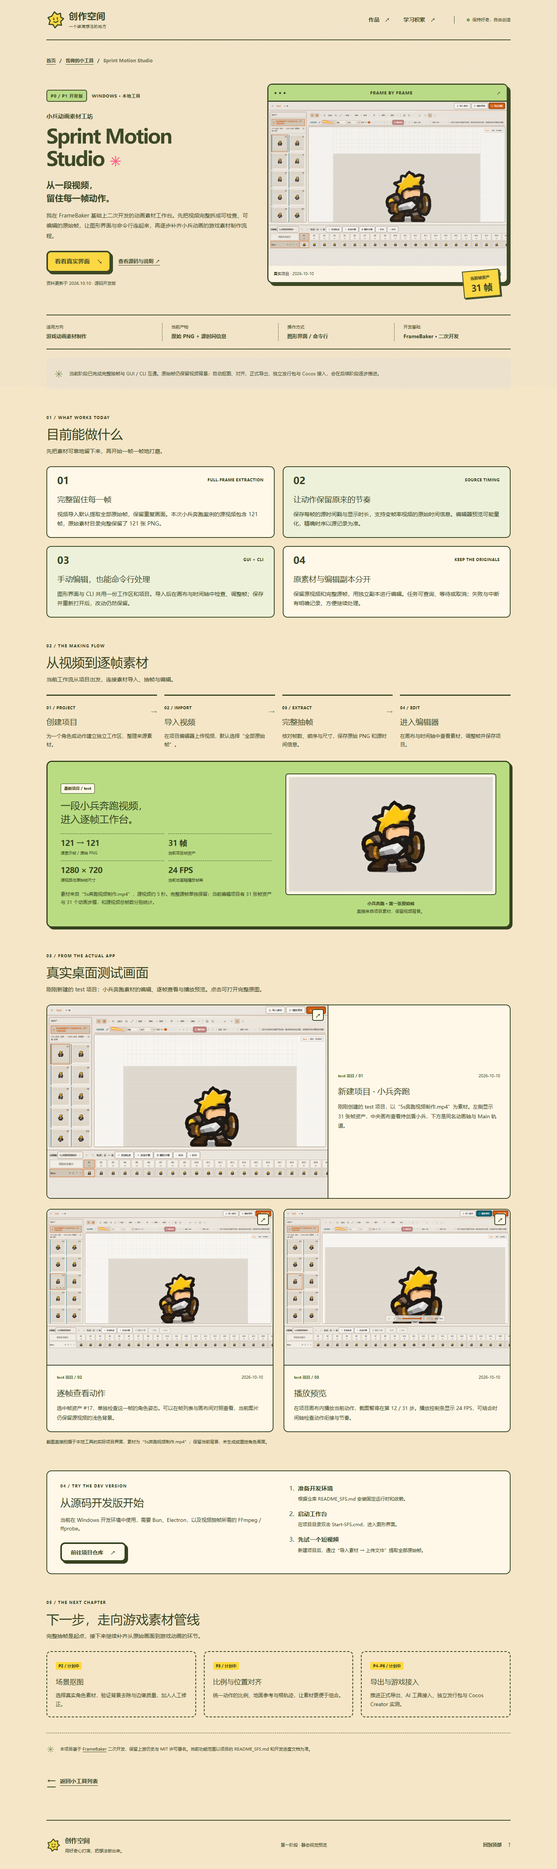
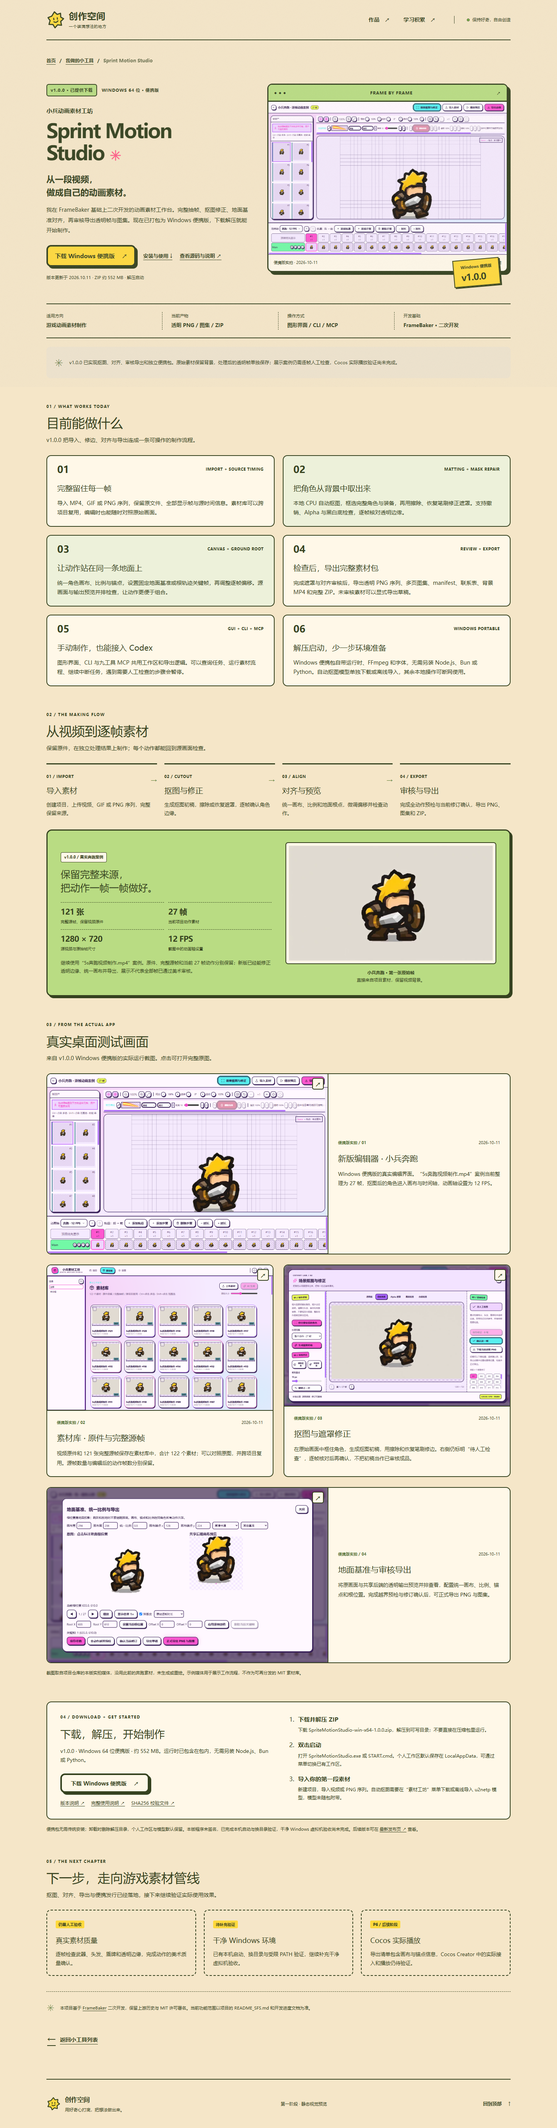
feat: publish studio v1.0.0 download and updated showcase

diff --git a/app/tools/sprint-motion-studio/page.tsx b/app/tools/sprint-motion-studio/page.tsx
@@ -1,4 +1,5 @@
 import { publicAsset } from "@/lib/public-assets";
+import { studioRelease } from "@/data/sprint-motion-studio";
 import type { Metadata } from "next";
 import Image from "next/image";
 import Link from "next/link";
@@ -6,32 +7,35 @@ import { SiteHeader } from "@/components/SiteHeader";
 import { SiteFooter } from "@/components/SiteFooter";
 import styles from "./studio.module.css";
 
-const repo = "https://github.com/wzh20010805-boop/Sprint-Motion-Studio";
+const repo = studioRelease.repoUrl;
 const assetRoot = publicAsset("/images/tools/sprint-motion-studio");
 
 export const metadata: Metadata = {
   title: "Sprint Motion Studio · 小兵动画素材工坊 | 创作空间",
-  description: "基于 FrameBaker 二次开发的动画素材工具。查看视频完整抽帧、源时序保留、GUI 与 CLI 互通、真实桌面测试画面及 P0/P1 开发进度。",
+  description: "下载 Sprint Motion Studio 1.0.0 Windows 便携版，查看完整抽帧、抠图修正、地面基准对齐、审核导出、CLI / MCP 互通和真实小兵奔跑案例。",
 };
 
 const capabilities = [
-  { number: "01", title: "完整留住每一帧", text: "视频导入默认提取全部原始帧，保留重复画面。本次小兵奔跑案例的源视频包含 121 帧，原始素材目录完整保留了 121 张 PNG。", tag: "FULL-FRAME EXTRACTION" },
-  { number: "02", title: "让动作保留原来的节奏", text: "保存每帧的源时间戳与显示时长，支持变帧率视频的原始时间信息。编辑器预览可能量化，精确时序以源记录为准。", tag: "SOURCE TIMING" },
-  { number: "03", title: "手动编辑，也能命令行处理", text: "图形界面与 CLI 共用一份工作区和项目。导入后在画布与时间轴中检查、调整帧；保存并重新打开后，改动仍然保留。", tag: "GUI + CLI" },
-  { number: "04", title: "原素材与编辑副本分开", text: "保留原视频和完整源帧，用独立副本进行编辑。任务可查询、等待或取消；失败与中断有明确记录，方便继续处理。", tag: "KEEP THE ORIGINALS" },
+  { number: "01", title: "完整留住每一帧", text: "导入 MP4、GIF 或 PNG 序列，保留原文件、全部显示帧与源时间信息。素材库可以跨项目复用，编辑时也能随时对照原始画面。", tag: "IMPORT + SOURCE TIMING" },
+  { number: "02", title: "把角色从背景中取出来", text: "本地 CPU 自动抠图，框选完整角色与装备，再用擦除、恢复笔刷修正遮罩。支持撤销、Alpha 与黑白底检查，逐帧核对透明边缘。", tag: "MATTING + MASK REPAIR" },
+  { number: "03", title: "让动作站在同一条地面上", text: "统一角色画布、比例与锚点，设置固定地面基准或根轨迹关键帧，再调整逐帧偏移。源画面与输出预览并排检查，让动作更便于组合。", tag: "CANVAS + GROUND ROOT" },
+  { number: "04", title: "检查后，导出完整素材包", text: "完成遮罩与对齐审核后，导出透明 PNG 序列、多页图集、manifest、联系表、背景 MP4 和完整 ZIP。未审核素材可以显式导出草稿。", tag: "REVIEW + EXPORT" },
+  { number: "05", title: "手动制作，也能接入 Codex", text: "图形界面、CLI 与九工具 MCP 共用工作区和导出逻辑。可以查询任务、运行素材流程、继续中断任务，遇到需要人工检查的步骤会暂停。", tag: "GUI + CLI + MCP" },
+  { number: "06", title: "解压启动，少一步环境准备", text: "Windows 便携包自带运行时、FFmpeg 和字体，无需另装 Node.js、Bun 或 Python。自动抠图模型单独下载或离线导入，其余本地操作可断网使用。", tag: "WINDOWS PORTABLE" },
 ];
 
 const workflow = [
-  { title: "创建项目", text: "为一个角色或动作建立独立工作区，整理来源素材。", hint: "01 / PROJECT" },
-  { title: "导入视频", text: "在项目编辑器上传视频，默认选择“全部原始帧”。", hint: "02 / IMPORT" },
-  { title: "完整抽帧", text: "核对帧数、顺序与尺寸，保存原始 PNG 和源时间信息。", hint: "03 / EXTRACT" },
-  { title: "进入编辑器", text: "在画布与时间轴中查看素材，调整帧并保存项目。", hint: "04 / EDIT" },
+  { title: "导入素材", text: "创建项目，上传视频、GIF 或 PNG 序列，完整保留来源。", hint: "01 / IMPORT" },
+  { title: "抠图与修正", text: "生成抠图初稿，擦除或恢复遮罩，逐帧确认角色边缘。", hint: "02 / CUTOUT" },
+  { title: "对齐与预览", text: "统一画布、比例和地面根点，微调偏移并检查动作。", hint: "03 / ALIGN" },
+  { title: "审核与导出", text: "完成全动作预检与当前修订确认，导出 PNG、图集和 ZIP。", hint: "04 / EXPORT" },
 ];
 
 const screenshots = [
-  { file: "test-project-editor.png", title: "新建项目 · 小兵奔跑", text: "刚刚创建的 test 项目，以“5s奔跑视频制作.mp4”为素材。左侧显示 31 张帧资产，中央画布查看持剑盾小兵，下方是同名动画轴与 Main 轨道。", alt: "test 项目的真实编辑界面：31张小兵奔跑帧资产、角色画布及5s奔跑视频制作动画轴" },
-  { file: "test-project-frame.png", title: "逐帧查看动作", text: "选中帧资产 #17，单独检查这一帧的角色姿态。可以在帧列表与画布间对照查看，当前图片仍保留源视频的浅色背景。", alt: "test 项目中选中第17张帧资产，画布展示持剑盾小兵的奔跑姿态" },
-  { file: "test-project-preview.png", title: "播放预览", text: "在项目画布内播放当前动作，截图暂停在第 12 / 31 步。播放控制条显示 24 FPS，可结合时间轴检查动作衔接与节奏。", alt: "test 项目的小兵奔跑播放预览，控制条显示24 FPS与第12步共31步" },
+  { file: "v1-editor.png", title: "新版编辑器 · 小兵奔跑", text: "Windows 便携版的真实编辑界面。“5s奔跑视频制作.mp4”案例当前整理为 27 帧，抠图后的角色进入画布与时间轴，动画轴设置为 12 FPS。", alt: "Sprint Motion Studio 1.0.0实拍编辑器：27帧小兵奔跑角色、透明画布及12 FPS动画轴", height: 861 },
+  { file: "v1-library.png", title: "素材库 · 原件与完整源帧", text: "视频原件和 121 张完整源帧保存在素材库中，合计 122 个素材；可以对照原图，并跨项目复用。源帧数量与编辑后的动作帧数分别保留。", alt: "新版素材库显示122个素材，包含原视频与完整抽取的小兵奔跑源帧", height: 861 },
+  { file: "v1-mask-workshop.png", title: "抠图与遮罩修正", text: "在原始画面中框住角色，生成抠图初稿，用擦除和恢复笔刷修边。右侧仍标明“待人工检查”，逐帧核对后再确认，不把初稿当作已审核成品。", alt: "场景抠图与修正窗口，展示原始角色、框选、擦除恢复笔刷及待人工检查状态", height: 835 },
+  { file: "v1-alignment-workshop.png", title: "地面基准与审核导出", text: "将原画面与共享后端的透明输出预览并排查看，配置统一画布、比例、锚点和根位置。完成越界预检与修订确认后，可正式导出 PNG 与图集。", alt: "地面基准统一比例与导出窗口，展示画布参数、地面根位置、透明预览以及正式导出入口", height: 835 },
 ];
 
 export default function SprintMotionStudioPage() {
@@ -49,67 +53,69 @@ export default function SprintMotionStudioPage() {
         <article>
           <header className={styles.hero}>
             <div className={styles.heroCopy}>
-              <div className={styles.labels}><span>P0 / P1 开发版</span><span>WINDOWS · 本地工具</span></div>
+              <div className={styles.labels}><span>v{studioRelease.version} · 已提供下载</span><span>WINDOWS 64 位 · 便携版</span></div>
               <p className={styles.chineseTitle}>小兵动画素材工坊</p>
               <h1>Sprint Motion<br /><span>Studio</span><span className={styles.spark} aria-hidden="true">✳</span></h1>
-              <p className={styles.tagline}>从一段视频，<br />留住每一帧动作。</p>
-              <p className={styles.intro}>我在 FrameBaker 基础上二次开发的动画素材工作台。先把视频完整拆成可检查、可编辑的原始帧，让图形界面与命令行连起来，再逐步补齐小兵动画的游戏素材制作流程。</p>
+              <p className={styles.tagline}>从一段视频，<br />做成自己的动画素材。</p>
+              <p className={styles.intro}>我在 FrameBaker 基础上二次开发的动画素材工作台。完整抽帧、抠图修正、地面基准对齐，再审核导出透明帧与图集。现在已打包为 Windows 便携版，下载解压就能开始制作。</p>
               <div className={styles.actions}>
-                <a className="candy-button candy-button--primary" href="#screenshots">看看真实界面 <span aria-hidden="true">↘</span></a>
+                <a className="candy-button candy-button--primary" href={studioRelease.downloadUrl} target="_blank" rel="noopener noreferrer">下载 Windows 便携版 <span aria-hidden="true">↗</span><span className="sr-only">（新标签页打开）</span></a>
+                <a className={styles.textLink} href="#getting-started">安装与使用 <span aria-hidden="true">↓</span></a>
                 <a className={styles.textLink} href={repo} target="_blank" rel="noopener noreferrer">查看源码与说明 <span aria-hidden="true">↗</span><span className="sr-only">（新标签页打开）</span></a>
               </div>
-              <p className={styles.updated}>资料更新于 <time dateTime="2026-10-10">2026.10.10</time> · 源码开发版</p>
+              <p className={styles.updated}>版本更新于 <time dateTime={studioRelease.publishedDate}>2026.10.11</time> · ZIP 约 552 MB · 解压启动</p>
             </div>
             <figure className={styles.heroVisual}>
               <div className={styles.windowBar}><span aria-hidden="true">● ● ●</span><span>FRAME BY FRAME</span><span aria-hidden="true">↗</span></div>
-              <Image src={`${assetRoot}/test-project-editor.png`} alt="Sprint Motion Studio中刚创建的test项目，展示小兵奔跑帧资产、角色画布及动画轴" width={1600} height={1100} unoptimized loading="eager" />
-              <figcaption><span>真实项目 · 2026-10-10</span><span>test / 小兵奔跑</span></figcaption>
-              <div className={styles.sticker}><span>当前帧资产</span><strong>31 帧</strong></div>
+              <Image src={`${assetRoot}/v1-editor.png`} alt="Sprint Motion Studio 1.0.0便携版真实界面，展示27帧抠图小兵奔跑案例" width={1344} height={861} unoptimized loading="eager" />
+              <figcaption><span>便携版实拍 · 2026-10-11</span><span>小兵奔跑 / 27 帧</span></figcaption>
+              <div className={styles.sticker}><span>Windows 便携版</span><strong>v{studioRelease.version}</strong></div>
             </figure>
           </header>
 
           <dl className={styles.facts}>
             <div><dt>适用方向</dt><dd>游戏动画素材制作</dd></div>
-            <div><dt>当前产物</dt><dd>原始 PNG + 源时间信息</dd></div>
-            <div><dt>操作方式</dt><dd>图形界面 / 命令行</dd></div>
+            <div><dt>当前产物</dt><dd>透明 PNG / 图集 / ZIP</dd></div>
+            <div><dt>操作方式</dt><dd>图形界面 / CLI / MCP</dd></div>
             <div><dt>开发基础</dt><dd>FrameBaker · 二次开发</dd></div>
           </dl>
 
-          <aside id="scope-note" className={styles.scopeNote}><span aria-hidden="true">✳</span><p>当前阶段已完成完整抽帧与 GUI / CLI 互通。原始帧仍保留视频背景；自动抠图、对齐、正式导出、独立发行包与 Cocos 接入，会在后续阶段逐步推进。</p></aside>
+          <aside id="scope-note" className={styles.scopeNote}><span aria-hidden="true">✳</span><p>v1.0.0 已实现抠图、对齐、审核导出和独立便携包。原始素材保留背景，处理后的透明帧单独保存；展示案例仍需逐帧人工检查，Cocos 实际播放验证尚未完成。</p></aside>
 
           <section id="capabilities" className={styles.section} aria-labelledby="capabilities-title">
-            <div className={styles.sectionHeading}><span className="section-kicker">01 / WHAT WORKS TODAY</span><h2 id="capabilities-title">目前能做什么</h2><p>先把素材可靠地留下来，再开始一帧一帧地打磨。</p></div>
+            <div className={styles.sectionHeading}><span className="section-kicker">01 / WHAT WORKS TODAY</span><h2 id="capabilities-title">目前能做什么</h2><p>v1.0.0 把导入、修边、对齐与导出连成一条可操作的制作流程。</p></div>
             <div className={styles.capabilities}>{capabilities.map((item) => <div className={styles.capability} key={item.number}><div className={styles.cardTop}><span>{item.number}</span><span>{item.tag}</span></div><h3>{item.title}</h3><p>{item.text}</p></div>)}</div>
           </section>
 
           <section id="workflow" className={styles.section} aria-labelledby="workflow-title">
-            <div className={styles.sectionHeading}><span className="section-kicker">02 / THE MAKING FLOW</span><h2 id="workflow-title">从视频到逐帧素材</h2><p>当前工作流从项目出发，连接素材导入、抽帧与编辑。</p></div>
+            <div className={styles.sectionHeading}><span className="section-kicker">02 / THE MAKING FLOW</span><h2 id="workflow-title">从视频到逐帧素材</h2><p>保留原件，在独立处理结果上制作；每个动作都能回到源画面检查。</p></div>
             <ol className={styles.workflow}>{workflow.map((step) => <li key={step.hint}><span>{step.hint}</span><h3>{step.title}</h3><p>{step.text}</p></li>)}</ol>
             <div className={styles.evidence}>
-              <div className={styles.evidenceCopy}><span className={styles.badge}>最新项目 / test</span><h3>一段小兵奔跑视频，<br />进入逐帧工作台。</h3><div className={styles.frameCounts}><span><strong>121 → 121</strong><small>源显示帧 / 原始 PNG</small></span><span><strong>31 帧</strong><small>当前项目帧资产</small></span><span><strong>1280 × 720</strong><small>源视频与原始帧尺寸</small></span><span><strong>24 FPS</strong><small>当前动画轴播放帧率</small></span></div><p>素材来自“5s奔跑视频制作.mp4”，源视频约 5 秒。完整源帧单独保留；当前编辑项目有 31 张帧资产与 31 个动画步骤，和源视频总帧数分别统计。</p></div>
+              <div className={styles.evidenceCopy}><span className={styles.badge}>v1.0.0 / 真实奔跑案例</span><h3>保留完整来源，<br />把动作一帧一帧做好。</h3><div className={styles.frameCounts}><span><strong>121 张</strong><small>完整源帧，保留视频原件</small></span><span><strong>27 帧</strong><small>当前项目动作素材</small></span><span><strong>1280 × 720</strong><small>源视频与原始帧尺寸</small></span><span><strong>12 FPS</strong><small>截图中的动画轴设置</small></span></div><p>继续使用“5s奔跑视频制作.mp4”案例。原件、完整源帧和当前 27 帧动作分别保留；新版已经能修正透明边缘、统一画布并导出，展示不代表全部帧已通过美术审核。</p></div>
               <figure className={styles.contactSheet}><a href={`${assetRoot}/test-project-source-frame.png`} target="_blank" rel="noopener noreferrer" aria-label="打开小兵奔跑原始帧原图（新标签页）"><Image src={`${assetRoot}/test-project-source-frame.png`} alt="5s奔跑视频制作素材的第一张原始PNG，浅色背景上是一名持剑盾的金发小兵" width={1280} height={720} unoptimized /></a><figcaption>小兵奔跑 · 第一张原始帧<br /><span>直接来自项目素材，保留视频背景。</span></figcaption></figure>
             </div>
           </section>
 
           <section id="screenshots" className={styles.section} aria-labelledby="screenshots-title">
-            <div className={styles.sectionHeading}><span className="section-kicker">03 / FROM THE ACTUAL APP</span><h2 id="screenshots-title">真实桌面测试画面</h2><p>刚刚新建的 test 项目：小兵奔跑素材的编辑、逐帧查看与播放预览。点击可打开完整原图。</p></div>
+            <div className={styles.sectionHeading}><span className="section-kicker">03 / FROM THE ACTUAL APP</span><h2 id="screenshots-title">真实桌面测试画面</h2><p>来自 v1.0.0 Windows 便携版的实际运行截图。点击可打开完整原图。</p></div>
             <div className={styles.gallery}>{screenshots.map((shot, index) => <figure className={styles.screenshot} key={shot.file}>
-              <a href={`${assetRoot}/${shot.file}`} target="_blank" rel="noopener noreferrer" aria-label={`打开${shot.title}原图（新标签页）`}><Image src={`${assetRoot}/${shot.file}`} alt={shot.alt} width={1600} height={1100} unoptimized /><span className={styles.expand} aria-hidden="true">↗</span></a>
-              <figcaption><div className={styles.shotMeta}><span>test 项目 / 0{index + 1}</span><time dateTime="2026-10-10">2026-10-10</time></div><h3>{shot.title}</h3><p>{shot.text}</p></figcaption>
+              <a href={`${assetRoot}/${shot.file}`} target="_blank" rel="noopener noreferrer" aria-label={`打开${shot.title}原图（新标签页）`}><Image src={`${assetRoot}/${shot.file}`} alt={shot.alt} width={1344} height={shot.height} unoptimized /><span className={styles.expand} aria-hidden="true">↗</span></a>
+              <figcaption><div className={styles.shotMeta}><span>便携版实拍 / 0{index + 1}</span><time dateTime="2026-10-11">2026-10-11</time></div><h3>{shot.title}</h3><p>{shot.text}</p></figcaption>
             </figure>)}</div>
-            <p className={styles.captionNote}>截图直接拍摄于本地工具的实际项目界面，素材为“5s奔跑视频制作.mp4”；保留当前背景，未生成或重绘角色画面。</p>
+            <p className={styles.captionNote}>截图取自项目仓库的本版实拍媒体，沿用此前的奔跑素材，未生成或重绘。示例媒体用于展示工作流程，不作为可再分发的 MIT 素材库。</p>
           </section>
 
           <section id="getting-started" className={styles.section} aria-labelledby="getting-started-title">
             <div className={styles.startPanel}>
-              <div><span className="section-kicker">04 / TRY THE DEV VERSION</span><h2 id="getting-started-title">从源码开发版开始</h2><p>当前在 Windows 开发环境中使用，需要 Bun、Electron，以及视频抽帧所需的 FFmpeg / ffprobe。</p><a className="candy-button candy-button--secondary" href={repo} target="_blank" rel="noopener noreferrer">前往项目仓库 <span aria-hidden="true">↗</span><span className="sr-only">（新标签页打开）</span></a></div>
-              <ol><li><strong>准备开发环境</strong><span>根据仓库 README_SFS.md 安装固定运行时和依赖。</span></li><li><strong>启动工作台</strong><span>在项目目录双击 Start-SFS.cmd，进入图形界面。</span></li><li><strong>先试一个短视频</strong><span>新建项目后，通过“导入素材 → 上传文件”提取全部原始帧。</span></li></ol>
+              <div><span className="section-kicker">04 / DOWNLOAD + GET STARTED</span><h2 id="getting-started-title">下载，解压，开始制作</h2><p>v{studioRelease.version} · Windows 64 位便携版 · 约 552 MB。运行时已包含在包内，无需另装 Node.js、Bun 或 Python。</p><a className="candy-button candy-button--secondary" href={studioRelease.downloadUrl} target="_blank" rel="noopener noreferrer">下载 Windows 便携版 <span aria-hidden="true">↗</span><span className="sr-only">（新标签页打开）</span></a><div className={styles.downloadLinks}><a href={studioRelease.releaseUrl} target="_blank" rel="noopener noreferrer">版本说明 ↗</a><a href={studioRelease.guideUrl} target="_blank" rel="noopener noreferrer">完整使用说明 ↗</a><a href={studioRelease.checksumUrl} target="_blank" rel="noopener noreferrer">SHA256 校验文件 ↗</a></div></div>
+              <ol><li><strong>下载并解压 ZIP</strong><span>下载 {studioRelease.archiveName}，解压到可写目录；不要直接在压缩包里运行。</span></li><li><strong>双击启动</strong><span>打开 SpriteMotionStudio.exe 或 START.cmd。个人工作区默认保存在 LocalAppData，可通过菜单切换已有工作区。</span></li><li><strong>导入你的第一段素材</strong><span>新建项目，导入视频或 PNG 序列。自动抠图需要在“素材工坊”菜单下载或离线导入 u2netp 模型，模型未随包附带。</span></li></ol>
             </div>
+            <p className={styles.captionNote}>便携包无需传统安装；卸载时删除解压目录，个人工作区与模型默认保留。本版程序未签名，已完成本机启动与换目录验证，干净 Windows 虚拟机验收尚未完成。后续版本可在 <a href={studioRelease.latestUrl} target="_blank" rel="noopener noreferrer">最新发布页 ↗</a> 查看。</p>
           </section>
 
           <section id="roadmap" className={styles.section} aria-labelledby="roadmap-title">
-            <div className={styles.sectionHeading}><span className="section-kicker">05 / THE NEXT CHAPTER</span><h2 id="roadmap-title">下一步，走向游戏素材管线</h2><p>完整抽帧是起点，接下来继续补齐从原始画面到游戏动画的环节。</p></div>
-            <div className={styles.roadmap}><div><span>P2 / 计划中</span><h3>场景抠图</h3><p>选择真实角色素材，验证背景去除与边缘质量，加入人工修正。</p></div><div><span>P3 / 计划中</span><h3>比例与位置对齐</h3><p>统一动作的比例、地面参考与根轨迹，让素材更便于组合。</p></div><div><span>P4–P6 / 计划中</span><h3>导出与游戏接入</h3><p>推进正式导出、AI 工具接入、独立发行包与 Cocos Creator 实测。</p></div></div>
+            <div className={styles.sectionHeading}><span className="section-kicker">05 / THE NEXT CHAPTER</span><h2 id="roadmap-title">下一步，走向游戏素材管线</h2><p>抠图、对齐、导出与便携发行已经落地，接下来继续验证实际使用效果。</p></div>
+            <div className={styles.roadmap}><div><span>仍需人工验收</span><h3>真实素材质量</h3><p>逐帧检查武器、头发、盾牌和透明边缘，完成动作的美术质量确认。</p></div><div><span>待补充验证</span><h3>干净 Windows 环境</h3><p>已有本机启动、换目录与受限 PATH 验证，继续补充干净虚拟机验收。</p></div><div><span>P6 / 后续阶段</span><h3>Cocos 实际播放</h3><p>导出清单包含画布与锚点信息，Cocos Creator 中的实际接入和播放仍待验证。</p></div></div>
           </section>
 
           <aside className={styles.origin}><span aria-hidden="true">✳</span><p>本项目基于 <a href="https://github.com/taotao7/FrameBaker" target="_blank" rel="noopener noreferrer">FrameBaker<span className="sr-only">（新标签页打开）</span></a> 二次开发，保留上游历史与 MIT 许可署名。当前功能范围以项目的 README_SFS.md 和开发进度文档为准。</p></aside>

diff --git a/app/tools/sprint-motion-studio/studio.module.css b/app/tools/sprint-motion-studio/studio.module.css
@@ -59,9 +59,9 @@
 .contactSheet figcaption span { font-weight: 400; }
 .gallery { display: grid; grid-template-columns: repeat(2, minmax(0, 1fr)); gap: 26px; }
 .screenshot { margin: 0; min-width: 0; border: 2px solid var(--ink); border-radius: 12px; background: var(--paper-light); overflow: hidden; }
-.screenshot:first-child { grid-column: 1 / -1; display: grid; grid-template-columns: minmax(0, 1.55fr) minmax(0, 1fr); align-items: center; }
+.screenshot:first-child, .screenshot:last-child { grid-column: 1 / -1; display: grid; grid-template-columns: minmax(0, 1.55fr) minmax(0, 1fr); align-items: center; }
 .screenshot > a { display: block; position: relative; border-bottom: 2px solid var(--ink); background: #f4f1ea; }
-.screenshot:first-child > a { border-bottom: 0; border-right: 2px solid var(--ink); }
+.screenshot:first-child > a, .screenshot:last-child > a { border-bottom: 0; border-right: 2px solid var(--ink); }
 .expand { position: absolute; top: 10px; right: 10px; display: grid; place-items: center; width: 30px; height: 30px; border: 2px solid var(--ink); border-radius: 5px; background: var(--paper-light); font-weight: 900; }
 .screenshot > a:hover .expand { background: var(--skill); }
 .screenshot figcaption { padding: 22px 25px; }
@@ -80,6 +80,8 @@
 .startPanel strong, .startPanel li span { display: block; }
 .startPanel strong { font-size: 15px; }
 .startPanel li span { font-size: 12px; margin-top: 4px; overflow-wrap: anywhere; }
+.downloadLinks { display: flex; flex-wrap: wrap; gap: 9px 16px; margin-top: 16px; font-size: 12px; }
+.downloadLinks a, .captionNote a { text-decoration: underline; text-underline-offset: 3px; }
 .roadmap { display: grid; grid-template-columns: repeat(3, minmax(0, 1fr)); gap: 20px; }
 .roadmap > div { padding: 20px 22px; border: 2px dashed var(--ink); border-radius: 11px; }
 .roadmap > div > span { font-size: 10px; font-weight: 800; background: var(--skill); padding: 3px 7px; border-radius: 3px; }
@@ -94,8 +96,8 @@
   .workflow { grid-template-columns: repeat(2, minmax(0, 1fr)); gap: 23px; }
   .workflow li:nth-child(2)::after { content: none; }
   .evidence { gap: 25px; padding: 25px; }
-  .screenshot:first-child { grid-template-columns: minmax(0, 1fr); }
-  .screenshot:first-child > a { border-right: 0; border-bottom: 2px solid var(--ink); }
+  .screenshot:first-child, .screenshot:last-child { grid-template-columns: minmax(0, 1fr); }
+  .screenshot:first-child > a, .screenshot:last-child > a { border-right: 0; border-bottom: 2px solid var(--ink); }
 }
 @media (max-width: 700px) {
   .hero { grid-template-columns: minmax(0, 1fr); gap: 35px; margin-top: 25px; }

diff --git a/data/projects.ts b/data/projects.ts
@@ -1,3 +1,4 @@
+import { studioRelease } from "./sprint-motion-studio";
 import type { CategoryId } from "./categories";
 
 export interface Project {
@@ -137,26 +138,26 @@ export const projects: Project[] = [{
   subtitle: "小兵动画素材工坊",
   typeLabel: "动画素材工具",
   detailLabel: "查看工具介绍",
-  coverCaption: "test 项目 · 小兵奔跑实拍",
+  coverCaption: "v1.0.0 便携版 · 小兵奔跑实拍",
   category: "tools",
-  description: "基于 FrameBaker 二次开发的动画素材工作台。完整提取视频中的每一帧，保留源时间信息，让图形界面与命令行共用一份项目，逐步走向游戏动画素材制作。",
-  status: "P0 / P1 开发版",
+  description: "从视频完整抽帧，到抠图修正、地面对齐与审核导出。Windows 便携版已提供下载，解压即可启动，也能通过 CLI / MCP 接入 Codex。",
+  status: "v1.0.0 · 可下载",
   cover: {
-    src: "/images/tools/sprint-motion-studio/test-project-editor.png",
-    alt: "Sprint Motion Studio 的 test 项目：31张小兵奔跑帧资产、角色画布与动画时间轴",
-    width: 1600,
-    height: 1100,
+    src: "/images/tools/sprint-motion-studio/v1-editor.png",
+    alt: "Sprint Motion Studio 1.0.0便携版实拍：27帧抠图小兵、角色画布与动画时间轴",
+    width: 1344,
+    height: 861,
   },
   detailHref: "/tools/sprint-motion-studio/",
-  links: [{ href: "https://github.com/wzh20010805-boop/Sprint-Motion-Studio", label: "查看源码与说明" }],
+  links: [{ href: studioRelease.downloadUrl, label: "下载 Windows 便携版" }, { href: studioRelease.repoUrl, label: "查看源码与说明" }],
   isPlaceholder: false,
   published: true,
-  sourceVersion: "P0 / P1 · 2026-10-10",
-  requirements: ["Windows 开发环境", "Bun + Electron", "FFmpeg / ffprobe"],
-  delivery: "源码开发版，通过 Start-SFS.cmd 启动；独立发行包仍在计划中。",
+  sourceVersion: "v1.0.0 · 2026-10-11",
+  requirements: ["Windows 64 位", "解压到可写目录", "自动抠图模型需另行下载或离线导入"],
+  delivery: "Windows 便携 ZIP，解压后双击 SpriteMotionStudio.exe 或 START.cmd，无需另装开发环境。",
   features: [],
   steps: [],
-  notice: "当前输出保留原始背景；自动抠图、对齐、正式导出与 Cocos 接入为后续阶段。",
+  notice: "模型未随包附带，自动抠图需另行准备；正式导出需完成遮罩与对齐审核，Cocos 实际播放仍待验证。",
 }];
 
 export function getPublishedProjectsByCategory(category: CategoryId) {

diff --git a/data/sprint-motion-studio.ts b/data/sprint-motion-studio.ts
@@ -1,0 +1,12 @@
+export const studioRelease = {
+  version: "1.0.0",
+  publishedDate: "2026-10-11",
+  repoUrl: "https://github.com/wzh20010805-boop/Sprint-Motion-Studio",
+  releaseUrl: "https://github.com/wzh20010805-boop/Sprint-Motion-Studio/releases/tag/v1.0.0",
+  latestUrl: "https://github.com/wzh20010805-boop/Sprint-Motion-Studio/releases/latest",
+  guideUrl: "https://github.com/wzh20010805-boop/Sprint-Motion-Studio/blob/v1.0.0/docs/p3-p5-guide.md",
+  archiveName: "SpriteMotionStudio-win-x64-1.0.0.zip",
+  sizeBytes: 552404998,
+  downloadUrl: "https://github.com/wzh20010805-boop/Sprint-Motion-Studio/releases/download/v1.0.0/SpriteMotionStudio-win-x64-1.0.0.zip",
+  checksumUrl: "https://github.com/wzh20010805-boop/Sprint-Motion-Studio/releases/download/v1.0.0/SpriteMotionStudio-win-x64-1.0.0.zip.sha256",
+} as const;

diff --git a/docs/sprint-motion-studio-showcase.md b/docs/sprint-motion-studio-showcase.md
@@ -1,47 +1,46 @@
-# Sprint Motion Studio 网页展示
+# Sprint Motion Studio v1.0.0 网页更新
 
-更新日期：2026-10-10。详情路由：`/tools/sprint-motion-studio/`。
+更新时间：2026-10-11。详情路由：`/tools/sprint-motion-studio/`。
 
-## 已确认范围
+用户要求更新最新功能、公开安装包下载与使用方法，并推送个人网页仓库，让其他用户查看和使用工具。沿用已确认的页面样式，保留此前授权的同一小兵奔跑案例，更新为本版实拍截图。
 
-用户确认采用本地仓库中的名称 Sprint Motion Studio，添加“小工具”卡片和独立详情页，沿用网站风格，展示当前功能、使用流程、真实测试画面及后续计划。
+## 版本与来源
 
-本地资料来自 `D:/AIJOB/tools/Sprite Motion Studio/framebaker/`；本次没有修改工具工程、项目帧、时间轴内容或源素材。该工程的 origin 为 `https://github.com/wzh20010805-boop/Sprint-Motion-Studio.git`，上游为 FrameBaker。网页提供配置中的源码入口，没有虚构独立下载包。
+- 最新正式 Release：`v1.0.0`，2026-10-11 发布，非预发布。
+- 项目仓库：https://github.com/wzh20010805-boop/Sprint-Motion-Studio
+- 发布说明：https://github.com/wzh20010805-boop/Sprint-Motion-Studio/releases/tag/v1.0.0
+- 来源源码版本：`5afcc861db19e2d1d38db63e75e37bab86ef93d9`。本地工具仓库 HEAD 与远端一致，README、使用指南和展示图片没有本地修改。本轮没有修改工具工程或用户工作区。
+- 依据：`README.md`、`docs/p3-p5-guide.md`、`docs/releases/v1.0.0.md`、Release 正文。历史 progress.md 下半部不作为当前范围。
 
-## 内容依据
+已实现并写入网页：完整视频/GIF/PNG 导入、源帧与时序保留、CPU 抠图和遮罩修正、公共画布与地面基准、审核导出 PNG/规则图集/manifest/MP4/ZIP、共享 CLI 与九工具 MCP、Windows 便携发行。
 
-- `README_SFS.md`：P0/P1 范围、完整抽帧、源时序、GUI/CLI 共享、独立可编辑副本、任务状态、Windows 开发宿主的启动与依赖。
-- `docs/progress.md`：当前阶段、限制和后续 P2–P6 计划。没有将上游所有功能或计划当作本项目已完成。
-- `docs/p1-desktop.md`：2026-10-10 真实桌面编辑器、导入默认值、GUI 上传、保存重开与 GUI/CLI 逐帧等价性。
-- `docs/evidence/p1/extraction-report.md`：合成视频 48/61/120/300 个源显示帧逐一提取；重复画面保留和真实 VFR 源时序。
-- `docs/evidence/p1/quality-report.md`：输出为保留背景的原始帧，检查图来自合成测试视频，不是小兵动作素材或透明抠图结果。
-- `README.zh-CN.md` 与 `THIRD_PARTY_NOTICES.md`：名称、FrameBaker 二次开发与上游 MIT 署名。
+尚未完成：干净 Windows 虚拟机验收、真实美术逐帧质量确认、Cocos 实际接入和播放。页面不把这些写成已完成，也不把本轮网页检查写成安装包实际安装验证。
 
-页面使用 P0/P1 开发版作为展示阶段，未将上游 package.json 的 0.5.0 作为本工具独立发行版本。没有把上游骨骼编辑、场景分层、云生成与宽权限 MCP 宣称为当前开发入口已开放。
+## 公开下载
 
-## 最新真实项目案例
+- 文件：`SpriteMotionStudio-win-x64-1.0.0.zip`，Windows x64，552404998 字节（页面标示约 552 MB）。
+- URL：https://github.com/wzh20010805-boop/Sprint-Motion-Studio/releases/download/v1.0.0/SpriteMotionStudio-win-x64-1.0.0.zip
+- 校验文件：同一 URL 后附 `.sha256`。
+- GitHub Release API 确认安装包为 uploaded；公开下载链接 HEAD 返回 200，Content-Length 与 Release 资产大小一致。
+- 解压至可写目录，打开 `SpriteMotionStudio.exe` 或 `START.cmd`，不要求另装 Node.js/Bun/Python。
+- u2netp 模型未随包附带，需在菜单明确下载或离线导入。包未签名，工作区和模型默认保留在用户数据目录。
+- 可下载的是便携 ZIP，不虚构 MSI 或传统安装向导。版本数据集中在 `data/sprint-motion-studio.ts`。
 
-用户要求把合成测试案例替换为刚刚新建的项目。案例取自默认工作区中最新项目 `test`（ID `ab89e225-ec8a-4ecf-bd05-ef0956e95ad5`），素材名称为 `5s奔跑视频制作.mp4`。数据库通过 SQLite 只读连接核对，读取时包含实时 WAL。
+## 当前案例与图片
 
-- 源视频：1280 × 720，24 FPS，约 5.04 秒，121 个源显示帧；原始源素材目录确有 121 张 PNG。
-- 当前项目：31 张 ready 帧资产，动画轴 `5s奔跑视频制作`、Main 轨道、31 个动画步骤、24 FPS。
-- 源帧总数与当前编辑素材分别展示，不将 31 张资产误称为完整抽帧结果。
-- 本地实际服务中打开项目，查看第 17 张资产并播放预览，暂停在第 12 / 31 步拍摄。没有重新导入视频或修改项目；拍摄前后项目修订号均为 6680。
-- 为完整展示时间轴，拍摄时通过界面调整面板尺寸；最终拍摄会话拦截布局持久化请求，仅改变该浏览器的显示布局。
+截图来自 `docs/media/sfs/`，原样复制，无裁剪、重绘或生成。案例来源为此前提供的 `5s奔跑视频制作.mp4`；121 张完整源帧和原视频合计 122 个素材，当前动作 27 帧，编辑器截图显示 12 FPS。原始来源和编辑动作分别统计，不宣称全部帧已通过美术审核。示例媒体仅展示工作流程，不作为 MIT 授权素材库。
 
-截图直接来自实际工具界面；原始帧直接复制，不裁剪、重绘或生成。
-
-| 网页图片 | 内容 | 尺寸 |
+| 网站文件 | 工具仓库来源 | 尺寸 |
 | --- | --- | --- |
-| `test-project-editor.png` | 最新 test 项目的编辑器全景 | 1600 × 1100 |
-| `test-project-frame.png` | 第 17 张小兵奔跑帧资产 | 1600 × 1100 |
-| `test-project-preview.png` | 24 FPS 播放预览，暂停在 12 / 31 步 | 1600 × 1100 |
-| `test-project-source-frame.png` | 当前项目第一张原始帧 PNG | 1280 × 720 |
+| `v1-editor.png` | `docs/media/sfs/editor.png` | 1344 × 861 |
+| `v1-library.png` | `docs/media/sfs/library.png` | 1344 × 861 |
+| `v1-mask-workshop.png` | `docs/media/sfs/mask-workshop.png` | 1344 × 835 |
+| `v1-alignment-workshop.png` | `docs/media/sfs/alignment-workshop.png` | 1344 × 835 |
 
-网页图片目录：`public/images/tools/sprint-motion-studio/`。工具列表封面、详情页主图、案例说明和三张截图均已换为本次真实项目；原始视频背景仍然保留。
+保留此前 `test-project-source-frame.png` 作为原始背景画面对照；旧桌面截图不再用于当前展示。
 
-## 检查
+## 验证
 
-`scripts/check-sprint-motion-studio.mjs` 验证首页两个工具的计数、实际卡片跳转、详情刷新、原有工具导航、三张真实项目截图及原始帧加载、真实案例来源文案、原图打开、页面锚点和四种宽度布局；输出至 `docs/checks/sprint-motion-studio/`。
+`scripts/check-sprint-motion-studio.mjs` 检查首页计数、两件工具卡片和导航、当前四张实拍截图、原始帧加载、下载入口的实际 URL、启动和模型说明、SHA256 链接、原图打开及 320/375/768/1440px 布局。输出至 `docs/checks/sprint-motion-studio/`。
 
-既有 `check-content-pages.mjs` 更新工具数量为 2，并将原工具截图检查限定到像素光标卡片，继续验证六分类和现有详情页。另执行 typecheck、lint 与静态构建。
+`scripts/check-public-site.mjs` 继续检查带仓库路径的公网页面、图片、导航和当前下载入口。执行 lint、typecheck、静态构建后推送，等待 Pages 发布并检查公开网页；具体结果以本轮终端输出与 GitHub Actions 为准。

diff --git a/README.md b/README.md
@@ -45,7 +45,7 @@ python -m http.server 4174 --bind 127.0.0.1 --directory out
 | `/prompts/` | Prompt 推荐空状态 |
 | `/tools/` | 小工具作品卡片列表，目前 2 件作品 |
 | `/tools/pixel-cursor/` | 像素光标完整介绍、软件截图、功能、用法和下载须知 |
-| `/tools/sprint-motion-studio/` | 小兵动画素材工坊介绍、当前功能、处理流程、真实测试画面和后续计划 |
+| `/tools/sprint-motion-studio/` | 小兵动画素材工坊 v1.0.0 介绍、Windows 便携版下载、安装使用、实拍截图与后续验证 |
 | `/games/` | 游戏作品卡片列表，目前 1 件作品 |
 | `/games/colony-roads/` | 微境节点战争的开发进度、制作流程原图与四张真实测试截图 |
 | `/skills/` | Skill 作品卡片列表，目前 1 件作品 |
@@ -77,7 +77,7 @@ python -m http.server 4174 --bind 127.0.0.1 --directory out
 | `app/globals.css` | 色板、纸纹、组件样式及响应式布局 |
 | `public/illustrations/` | 本地 Hero 原图、保留的旧角色插画和纸张颗粒 SVG |
 | `public/images/tools/` | 用户提供的真实工具截图 |
-| `public/images/tools/sprint-motion-studio/` | 最新 test 项目的三张真实界面截图与一张原始素材帧 |
+| `public/images/tools/sprint-motion-studio/` | v1.0.0 的四张便携版实拍截图与原始素材对照帧 |
 | `public/images/games/colony-roads/` | 作者提供的流程原图与游戏项目真实引擎测试截图 |
 | `public/images/skills/amazon-product-radar/` | 用户提供的 Amazon Product Radar 历史报告截图 |
 
